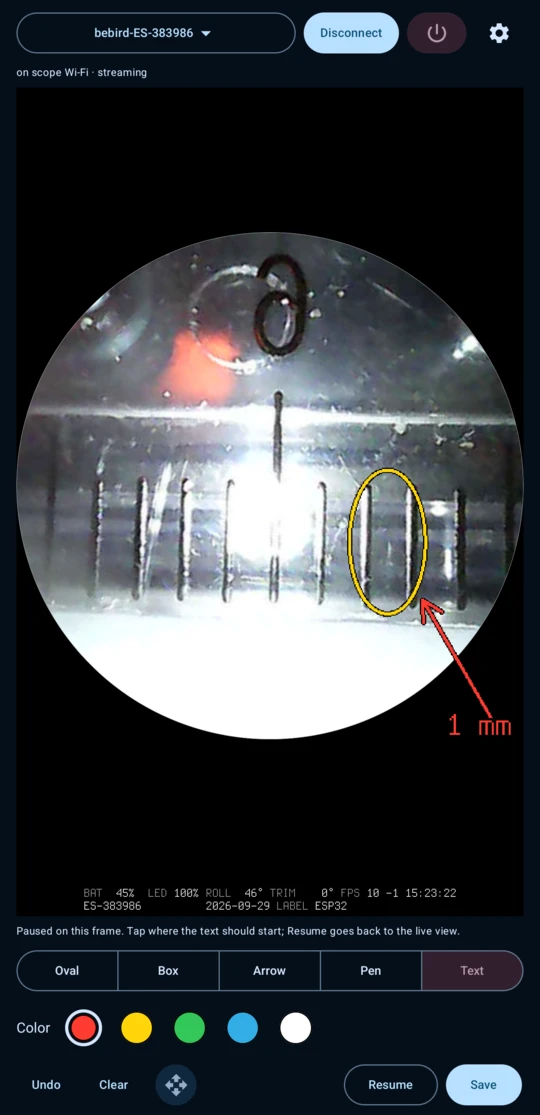
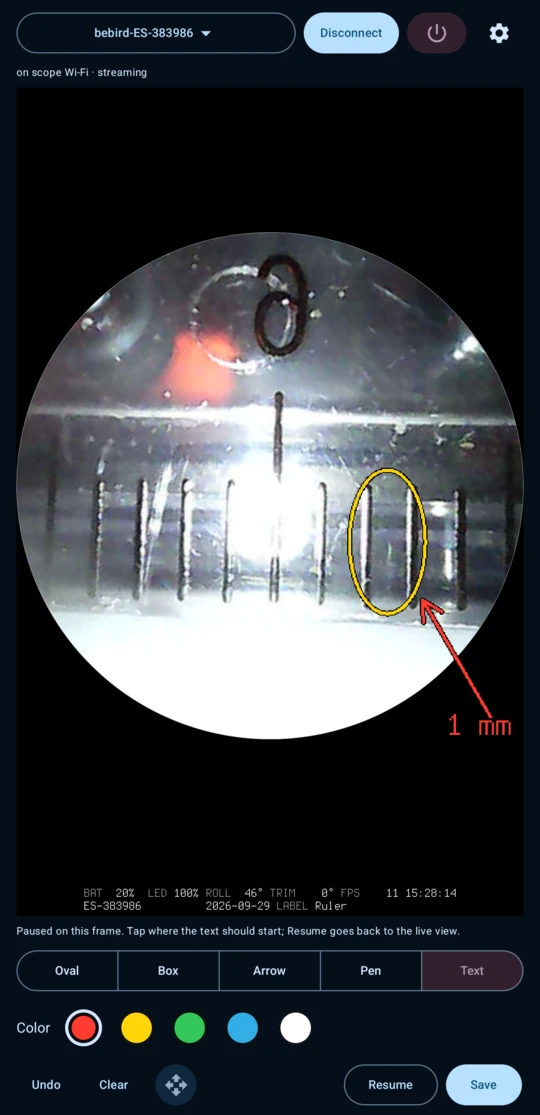
docs: retaken screenshots with the label Ruler
The shots now show LABEL Ruler in the status band, and CLOSE in the
live view and all three scale styles; alt text follows.

diff --git a/README.md b/README.md
@@ -3,7 +3,7 @@
 A viewer for **Bebird "ES" Wi-Fi otoscope / ear cameras** that works without the vendor app, an account, or an internet connection. It talks only to the scope, over the scope's own Wi-Fi. There is an Android app and a Linux desktop app.
 
 <p>
-<img src="docs/media/android-ring.webp" alt="The Android app streaming a close-up of a ruler. Cyan rings of an approximate mm scale, labelled ⌀2 to ⌀10, surround a small crosshair in the centre. Above the picture are the scope selector, Disconnect, a power button and a settings gear; below it the status band, the Scale selector set to Ring, Light at 100%, Auto-rotate with trim, a Label field reading ESP32, and Snapshot, Record, Annotate and Files buttons." width="270">
+<img src="docs/media/android-ring.webp" alt="The Android app streaming a close-up of a ruler. Cyan rings of an approximate mm scale, labelled ⌀2 to ⌀10, surround a small crosshair in the centre, with a yellow CLOSE warning top left. Above the picture are the scope selector, Disconnect, a power button and a settings gear; below it the status band, the Scale selector set to Ring, Light at 100%, Auto-rotate with trim, a Label field reading Ruler, and Snapshot, Record, Annotate and Files buttons." width="270">
 <img src="docs/media/android-annotate.webp" alt="The Android app in annotate mode on the same ruler picture: a yellow oval around one gap between the ruler's marks, a red arrow pointing at it, and the red text 1 mm. Below are the tools Oval, Box, Arrow, Pen and Text, five colours, Undo, Clear, a move tool, Resume and Save." width="270">
 </p>
 
@@ -23,7 +23,7 @@ Android 10 or later. What you can do:
 
 | Ring | Bowtie | Bar |
 |---|---|---|
-| <img src="docs/media/scale-ring.webp" alt="Five cyan rings, labelled ⌀2 to ⌀10 mm, around a centre crosshair, over a ruler" width="200"> | <img src="docs/media/scale-bowtie.webp" alt="A cyan bowtie with arcs at ⌀2 to ⌀10 mm across a ruler, and a yellow CLOSE warning top left" width="200"> | <img src="docs/media/scale-bar.webp" alt="A cyan bar marked 0 to 10 whose ticks line up with the ruler's mm marks, and a yellow CLOSE warning top left" width="200"> |
+| <img src="docs/media/scale-ring.webp" alt="Five cyan rings, labelled ⌀2 to ⌀10 mm, around a centre crosshair over a ruler, and a yellow CLOSE warning top left" width="200"> | <img src="docs/media/scale-bowtie.webp" alt="A cyan bowtie with arcs at ⌀2 to ⌀10 mm across a ruler, and a yellow CLOSE warning top left" width="200"> | <img src="docs/media/scale-bar.webp" alt="A cyan bar marked 0 to 10 whose ticks line up with the ruler's mm marks, and a yellow CLOSE warning top left" width="200"> |
 
 ### Getting started
 

diff --git a/docs/android.md b/docs/android.md
@@ -2,7 +2,7 @@
 
 A native Android app (Kotlin, Jetpack Compose, Android 10+) in [`android/`](../android/), app ID `com.bockelie.bebird`. It is still in progress; progress is tracked in [#8](https://github.com/aaronsb/bebird-viewer/issues/8). To build it, see [building.md](building.md).
 
-<img src="media/android-ring.webp" alt="The Android app streaming a close-up of a ruler with the ring scale and centre crosshair, and all live controls below the picture" width="320" align="right">
+<img src="media/android-ring.webp" alt="The Android app streaming a close-up of a ruler with the ring scale, centre crosshair and a CLOSE warning, and all live controls below the picture" width="320" align="right">
 
 ## Screen
 
@@ -78,7 +78,7 @@ Snapshots carry the same metadata as the desktop's (see [Snapshot metadata](desk
 
 | Ring | Bowtie | Bar |
 |---|---|---|
-| <img src="media/scale-ring.webp" alt="Five cyan rings, labelled ⌀2 to ⌀10 mm, around a centre crosshair, over a ruler" width="200"> | <img src="media/scale-bowtie.webp" alt="A cyan bowtie with arcs at ⌀2 to ⌀10 mm across a ruler, and a yellow CLOSE warning top left" width="200"> | <img src="media/scale-bar.webp" alt="A cyan bar marked 0 to 10 whose ticks line up with the ruler's mm marks, and a yellow CLOSE warning top left" width="200"> |
+| <img src="media/scale-ring.webp" alt="Five cyan rings, labelled ⌀2 to ⌀10 mm, around a centre crosshair over a ruler, and a yellow CLOSE warning top left" width="200"> | <img src="media/scale-bowtie.webp" alt="A cyan bowtie with arcs at ⌀2 to ⌀10 mm across a ruler, and a yellow CLOSE warning top left" width="200"> | <img src="media/scale-bar.webp" alt="A cyan bar marked 0 to 10 whose ticks line up with the ruler's mm marks, and a yellow CLOSE warning top left" width="200"> |
 
 - The scale is labelled "mm ±10%". It is grey and dashed until the estimator judges the picture in focus, then solid cyan.
 - A note beside it reads APPROXIMATE SCALE / Valid only when in focus / No distance sensor.
